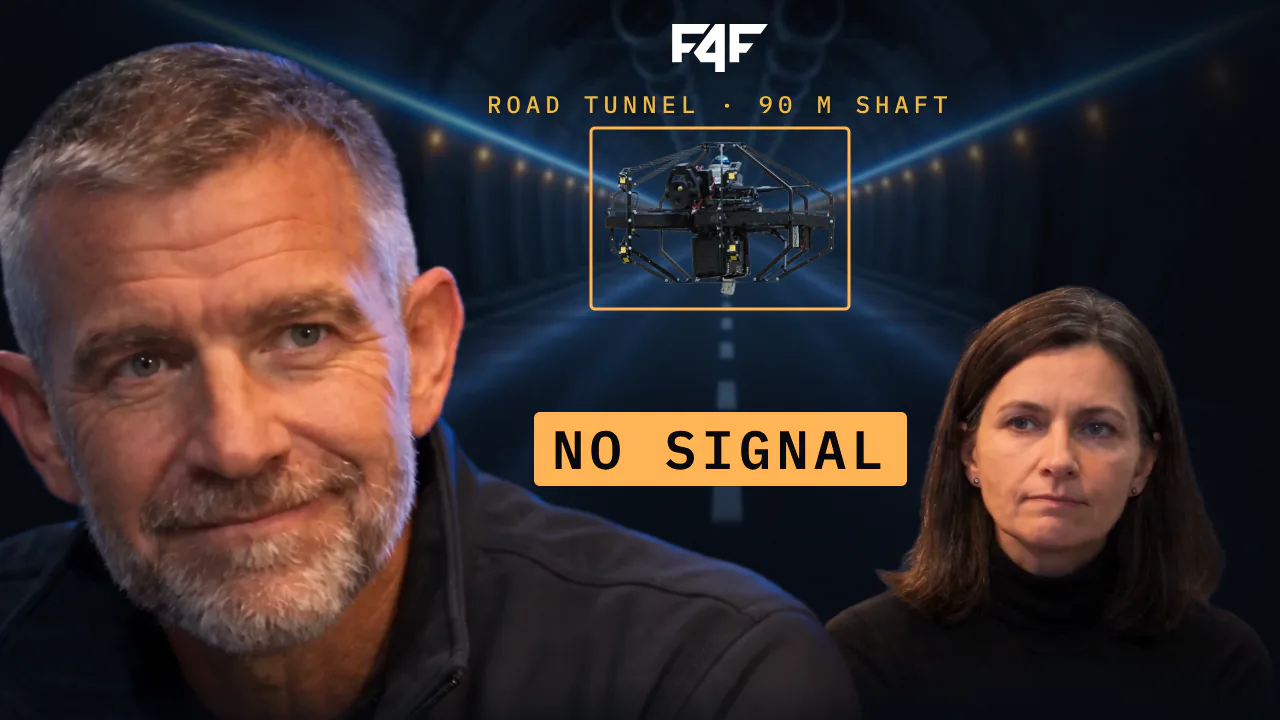
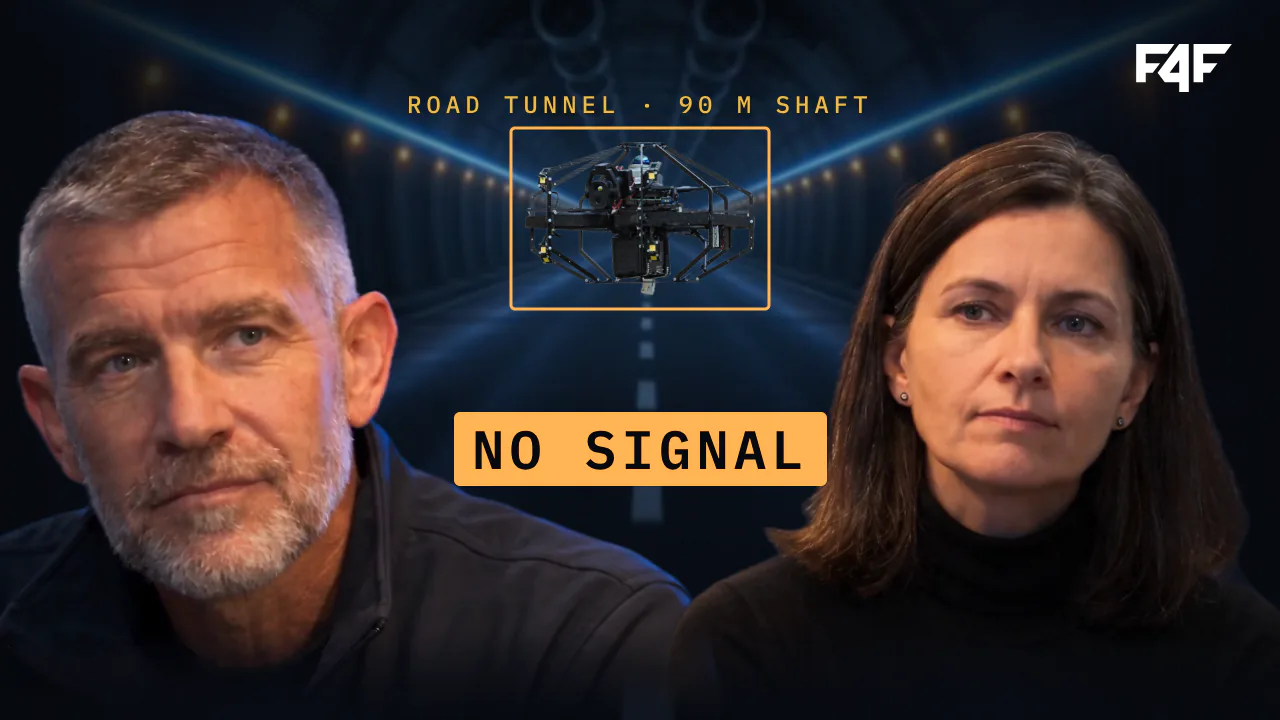
dron: rozhovor jako čistý embed YouTube (název a ikona kanálu nahoře v přehrávači, pod videem bez popisu a tlačítek), náhled 04b s Walterem posunutým doleva a dronem nad tlačítkem Přehrát

diff --git a/public/dron/index.html b/public/dron/index.html
@@ -1315,7 +1315,7 @@
 })();
 </script>
 
-<!-- ===== Rozhovor: minuta Walter × Irena (Seedance 2.5) jako maketa videa na YouTube. Náhled s červeným tlačítkem, po kliknutí hraje se zvukem a českými titulky, ovládání ve stylu YouTube, pod videem název, kanál, akce a popis ===== -->
+<!-- ===== Rozhovor: minuta Walter × Irena (Seedance 2.5) jako vložené video z YouTube. Náhled s červeným tlačítkem a názvem nahoře, po kliknutí hraje se zvukem a českými titulky, ovládání ve stylu YouTube ===== -->
 <style>
   #rozhovor{border-top:1px solid var(--line);padding-bottom:clamp(32px,4vw,48px);z-index:0;--rz-presah:clamp(72px,10vw,140px)}
   /* CTA pod rozhovorem bez vlastní černé plochy (body má stejnou barvu), aby do jejího horního okraje dobíhala silnice z tunelu */
@@ -1330,7 +1330,7 @@
   .rz-hlava .pod{max-width:62ch}
 
   /* maketa YouTube: tmavý motiv a písmo YouTube (Roboto, jinak Arial); z barev stránky jen fokus */
-  .yt{--yt-text:#f1f1f1;--yt-sub:#aaa;--yt-pill:rgba(39,39,39,.86);--yt-pill-h:rgba(63,63,63,.95);--yt-red:#f03;--yt-link:#3ea6ff;
+  .yt{--yt-text:#f1f1f1;--yt-red:#f03;
     max-width:960px;margin:0 auto;font-family:Roboto,Arial,sans-serif;color:var(--yt-text);-webkit-font-smoothing:antialiased}
   .yt button{font-family:inherit}
   .yt :focus-visible{outline:2px solid var(--hot);outline-offset:2px}
@@ -1385,54 +1385,19 @@
   .yt .i-play,.yt.pauza .i-pauza,.yt .i-ticho,.yt.ticho .i-zvuk,.yt .i-fs-ven,.yt.fs .i-fs-in{display:none}
   .yt.pauza .i-play,.yt.ticho .i-ticho,.yt.fs .i-fs-ven{display:block}
 
-  /* pod videem: název, kanál, akce, popis */
-  .yt-nazev{margin:14px 0 10px;font-family:Roboto,Arial,sans-serif;font-size:20px;line-height:28px;font-weight:700;letter-spacing:0;color:var(--yt-text)}
-  .yt-radek{display:flex;align-items:center;gap:12px 16px;flex-wrap:wrap}
-  .yt-kanal{display:flex;align-items:center;gap:12px;min-width:0}
+  /* horní lišta embedu: ikona kanálu a název videa, při přehrávání se schová spolu s ovládáním */
+  .yt-horni{position:absolute;left:0;right:0;top:0;display:flex;align-items:center;gap:12px;padding:12px 16px 30px;pointer-events:none;
+    background:linear-gradient(rgba(0,0,0,.6),rgba(0,0,0,.22) 62%,transparent);transition:opacity .25s ease}
+  .yt.spusteno.skryt .yt-horni{opacity:0}
   .yt-avatar{flex:0 0 auto;width:40px;height:40px;border-radius:50%;background:#00234d;display:grid;place-items:center}
   .yt-avatar svg{width:26px;height:13px;fill:#fff}
-  .yt-kanal b{display:block;font-size:16px;line-height:22px;font-weight:500}
-  .yt-kanal small{display:block;font-size:12px;line-height:18px;color:var(--yt-sub)}
-  .yt-odber{margin-left:12px;height:36px;padding:0 16px;border:0;border-radius:18px;background:#f1f1f1;color:#0f0f0f;font-size:14px;font-weight:500;white-space:nowrap;cursor:pointer;transition:background .2s ease,color .2s ease}
-  .yt-odber:hover{background:#d9d9d9}
-  .yt-odber[aria-pressed="true"]{background:var(--yt-pill);color:var(--yt-text)}
-  .yt-akce{display:flex;gap:8px;margin-left:auto;overflow-x:auto;scrollbar-width:none}
-  .yt-akce::-webkit-scrollbar{display:none}
-  .yt-pill{flex:0 0 auto;display:inline-flex;align-items:center;gap:6px;height:36px;padding:0 16px 0 12px;border:0;border-radius:18px;background:var(--yt-pill);color:var(--yt-text);
-    font-size:14px;font-weight:500;white-space:nowrap;cursor:pointer;-webkit-backdrop-filter:blur(10px);backdrop-filter:blur(10px);transition:background .2s ease}
-  button.yt-pill:hover,.yt-libi button:hover{background:var(--yt-pill-h)}
-  .yt-pill svg{width:24px;height:24px;fill:currentColor}
-  .yt-libi{padding:0;gap:0;overflow:hidden;cursor:auto}
-  .yt-libi button{display:inline-flex;align-items:center;gap:6px;height:36px;padding:0 14px 0 12px;border:0;background:none;color:inherit;font-size:14px;font-weight:500;cursor:pointer;transition:background .2s ease}
-  .yt-libi i{flex:0 0 auto;width:1px;height:24px;background:rgba(255,255,255,.2)}
-  .yt-libi .dolu svg{transform:rotate(180deg)}
-  .yt .i-plny,.yt [aria-pressed="true"] .i-obrys{display:none}
-  .yt [aria-pressed="true"] .i-plny{display:block}
-  .yt-sdilet svg{transform:scaleX(-1)}
-  .yt-popis{margin-top:12px;padding:12px;border-radius:12px;background:var(--yt-pill);-webkit-backdrop-filter:blur(10px);backdrop-filter:blur(10px);
-    font-size:14px;line-height:20px;cursor:pointer;transition:background .2s ease}
-  .yt-popis:not(.otevreno):hover{background:var(--yt-pill-h)}
-  .yt-popis.otevreno{cursor:auto}
-  .yt-meta{font-weight:500}
-  .yt-meta span{margin-left:6px;color:var(--yt-link)}
-  .yt-text{margin-top:4px;max-height:40px;overflow:hidden}
-  .yt-popis.otevreno .yt-text{max-height:none}
-  .yt-text p{margin:0 0 12px}
-  .yt-text [data-t]{padding:0;border:0;background:none;color:var(--yt-link);font-size:14px;cursor:pointer}
-  .yt-ai{padding-top:12px;border-top:1px solid rgba(255,255,255,.1)}
-  .yt-ai b{display:block;margin-bottom:6px;font-size:16px;line-height:22px;font-weight:700}
-  .yt-ai span{display:block;font-weight:500}
-  .yt-ai small{display:block;font-size:12px;line-height:18px;color:var(--yt-sub)}
-  .yt-vice{margin-top:4px;padding:0;border:0;background:none;color:var(--yt-text);font-size:14px;font-weight:500;cursor:pointer}
-  .yt-toast{position:fixed;left:24px;bottom:24px;z-index:60;padding:14px 16px;border-radius:8px;background:#f1f1f1;color:#0f0f0f;font:14px/20px Roboto,Arial,sans-serif;
-    opacity:0;transform:translateY(12px);transition:opacity .25s ease,transform .25s ease;pointer-events:none}
-  .yt-toast.vidno{opacity:1;transform:none}
+  .yt-titul{min-width:0;font-size:18px;line-height:24px;color:#fff;white-space:nowrap;overflow:hidden;text-overflow:ellipsis}
   @media (max-width:760px){
     .rz-pozadi img{opacity:.44}
-    .yt-nazev{margin:12px 0 10px;font-size:18px;line-height:25px}
-    .yt-kanal{flex:1 1 100%}
-    .yt-odber{margin-left:auto}
-    .yt-akce{flex:1 1 100%;margin-left:0}
+    .yt-horni{gap:8px;padding:8px 10px 22px}
+    .yt-avatar{width:32px;height:32px}
+    .yt-avatar svg{width:21px;height:10.5px}
+    .yt-titul{font-size:14px;line-height:20px}
     .yt-ovl{padding:18px 4px 0}
     .yt-lista{height:44px}
     .yt-lista button{width:40px;height:44px}
@@ -1457,10 +1422,11 @@
           <track kind="subtitles" src="/dron/rozhovor/f4f-podcast-v2-cs.vtt" srclang="cs" label="Česky" default>
         </video>
         <div class="yt-titulek" aria-hidden="true"><span></span></div>
-        <button class="yt-start" type="button" aria-label="Přehrát video Who flies a 90 m tunnel shaft? Nobody">
+        <button class="yt-start" type="button" aria-label="Přehrát video Who flies the tunnel shaft? Autonomous RoboAid">
           <img src="/dron/rozhovor/nahled-tunel.webp" width="1280" height="720" alt="" loading="lazy" decoding="async">
           <svg viewBox="0 0 68 48" aria-hidden="true"><path fill="#f03" d="M66.5 7.7c-.8-2.9-2.5-5.4-5.4-5.9C55.8.9 34 .9 34 .9s-21.8 0-27.1.9c-2.9.5-4.6 3-5.4 5.9C.6 13 .6 24 .6 24s0 11 .9 16.3c.8 2.9 2.5 5.4 5.4 5.9 5.3.9 27.1.9 27.1.9s21.8 0 27.1-.9c2.9-.5 4.6-3 5.4-5.9.9-5.3.9-16.3.9-16.3s0-11-.9-16.3z"/><path fill="#fff" d="M45 24 27 14v20z"/></svg>
         </button>
+        <div class="yt-horni" aria-hidden="true"><span class="yt-avatar" aria-hidden="true"><svg viewBox="0 128 512 256"><path d="M434.27 230.49H358.05V179.46H472.67L511.12 128.44H307.09L307.02 332.54H358.05V281.51H395.77ZM115.19 281.51l38.4 51.02h76.9v51.02h51.02v-255.12h-51.02l-115.3 153.07Zm63.84 0l51.46-68.29v68.29h-51.46ZM128.12 230.49H51.91V179.46H166.53L204.98 128.44H.94L.88 332.54H51.91V281.51H89.63Z" fill-rule="evenodd"/></svg></span><span class="yt-titul">Who flies the tunnel shaft? Autonomous RoboAid</span></div>
         <div class="yt-ovl">
           <div class="yt-osa" role="slider" tabindex="0" aria-label="Posun ve videu" aria-valuemin="0" aria-valuemax="60" aria-valuenow="0" aria-valuetext="0:00 z 1:00">
             <div class="yt-drah"><div class="yt-nacteno"></div><div class="yt-prehrano"></div><div class="yt-kap"></div></div>
@@ -1476,32 +1442,6 @@
             <button class="yt-fs" type="button" aria-label="Celá obrazovka"><svg viewBox="0 0 24 24" aria-hidden="true"><path class="i-fs-in" d="M7 14H5v5h5v-2H7v-3zm-2-4h2V7h3V5H5v5zm12 7h-3v2h5v-5h-2v3zM14 5v2h3v3h2V5h-5z"/><path class="i-fs-ven" d="M5 16h3v3h2v-5H5v2zm3-8H5v2h5V5H8v3zm6 11h2v-3h3v-2h-5v5zm2-11V5h-2v5h5V8h-3z"/></svg></button>
           </div>
         </div>
-      </div>
-      <h3 class="yt-nazev">Who flies a 90 m tunnel shaft? Nobody</h3>
-      <div class="yt-radek">
-        <div class="yt-kanal">
-          <span class="yt-avatar" aria-hidden="true"><svg viewBox="0 128 512 256"><path d="M434.27 230.49H358.05V179.46H472.67L511.12 128.44H307.09L307.02 332.54H358.05V281.51H395.77ZM115.19 281.51l38.4 51.02h76.9v51.02h51.02v-255.12h-51.02l-115.3 153.07Zm63.84 0l51.46-68.29v68.29h-51.46ZM128.12 230.49H51.91V179.46H166.53L204.98 128.44H.94L.88 332.54H51.91V281.51H89.63Z" fill-rule="evenodd"/></svg></span>
-          <span><b>Fly4Future</b><small>Autonomní drony bez GPS</small></span>
-          <button class="yt-odber" type="button" aria-pressed="false">Odebírat</button>
-        </div>
-        <div class="yt-akce">
-          <span class="yt-pill yt-libi">
-            <button type="button" aria-pressed="false"><svg viewBox="0 0 24 24" aria-hidden="true"><path class="i-obrys" d="M9 21h9c.83 0 1.54-.5 1.84-1.22l3.02-7.05c.09-.23.14-.47.14-.73v-2c0-1.1-.9-2-2-2h-6.31l.95-4.57.03-.32c0-.41-.17-.79-.44-1.06L14.17 1 7.58 7.59C7.22 7.95 7 8.45 7 9v10c0 1.1.9 2 2 2zM9 9l4.34-4.34L12 10h9v2l-3 7H9V9zM1 9h4v12H1z"/><path class="i-plny" d="M1 21h4V9H1v12zm22-11c0-1.1-.9-2-2-2h-6.31l.95-4.57.03-.32c0-.41-.17-.79-.44-1.06L14.17 1 7.59 7.59C7.22 7.95 7 8.45 7 9v10c0 1.1.9 2 2 2h9c.83 0 1.54-.5 1.84-1.22l3.02-7.05c.09-.23.14-.47.14-.73v-2z"/></svg>Líbí se mi</button>
-            <i></i>
-            <button class="dolu" type="button" aria-pressed="false" aria-label="Nelíbí se mi"><svg viewBox="0 0 24 24" aria-hidden="true"><path class="i-obrys" d="M9 21h9c.83 0 1.54-.5 1.84-1.22l3.02-7.05c.09-.23.14-.47.14-.73v-2c0-1.1-.9-2-2-2h-6.31l.95-4.57.03-.32c0-.41-.17-.79-.44-1.06L14.17 1 7.58 7.59C7.22 7.95 7 8.45 7 9v10c0 1.1.9 2 2 2zM9 9l4.34-4.34L12 10h9v2l-3 7H9V9zM1 9h4v12H1z"/><path class="i-plny" d="M1 21h4V9H1v12zm22-11c0-1.1-.9-2-2-2h-6.31l.95-4.57.03-.32c0-.41-.17-.79-.44-1.06L14.17 1 7.59 7.59C7.22 7.95 7 8.45 7 9v10c0 1.1.9 2 2 2h9c.83 0 1.54-.5 1.84-1.22l3.02-7.05c.09-.23.14-.47.14-.73v-2z"/></svg></button>
-          </span>
-          <button class="yt-pill yt-sdilet" type="button"><svg viewBox="0 0 24 24" aria-hidden="true"><path d="M10 9V5l-7 7 7 7v-4.1c5 0 8.5 1.6 11 5.1-1-5-4-10-11-11z"/></svg>Sdílet</button>
-          <button class="yt-pill yt-ulozit" type="button" aria-pressed="false"><svg viewBox="0 0 24 24" aria-hidden="true"><path d="M14 10H3v2h11v-2zm0-4H3v2h11V6zm4 8v-4h-2v4h-4v2h4v4h2v-4h4v-2h-4zM3 16h7v-2H3v2z"/></svg><span>Uložit</span></button>
-        </div>
-      </div>
-      <div class="yt-popis" id="rzPopis">
-        <div class="yt-meta">Koncept videa · 1:00<span>#RoboAid</span><span>#TunnelInspection</span><span>#NoGPS</span></div>
-        <div class="yt-text">
-          <p>Walter runs maintenance for road tunnels. Ventilation shafts up to 90 metres, no signal, no light, and one inspection means closing the tunnel for a night. Irena explains how RoboAid flies the shaft on its own, with 3D LiDAR instead of GPS and all computing on board.</p>
-          <p><button type="button" data-t="0">0:00</button> Shafts without signal<br><button type="button" data-t="30.1">0:30</button> No GPS, no pilot</p>
-          <div class="yt-ai"><b>Jak obsah vznikl</b><span>Upravený nebo syntetický obsah</span><small>Postavy jsou fiktivní, rozhovor vznikl s pomocí AI. Parametry RoboAidu odpovídají skutečnosti.</small></div>
-        </div>
-        <button class="yt-vice" type="button" aria-expanded="false">…více</button>
       </div>
     </div>
   </div>
@@ -1637,46 +1577,6 @@
       else if (r >= 0.6 && pauzaMimo){ pauzaMimo = false; if (!uzivatelPauza) hraj(); }
     }, {threshold: [0, 0.6]}).observe(ram);
   }
-
-  // pod videem: odběr, líbí se, uložit, sdílet, popis s kapitolami
-  var odber = $('.yt-odber');
-  odber.addEventListener('click', function(){
-    var zap = odber.getAttribute('aria-pressed') !== 'true';
-    odber.setAttribute('aria-pressed', zap); odber.textContent = zap ? 'Odebíráte' : 'Odebírat';
-  });
-  yt.querySelectorAll('.yt-libi button, .yt-ulozit').forEach(function(b){
-    b.addEventListener('click', function(){
-      var zap = b.getAttribute('aria-pressed') !== 'true';
-      if (zap && b.parentNode.classList.contains('yt-libi')) b.parentNode.querySelectorAll('button').forEach(function(x){ x.setAttribute('aria-pressed', 'false'); });
-      b.setAttribute('aria-pressed', zap);
-      if (b.classList.contains('yt-ulozit')) b.querySelector('span').textContent = zap ? 'Uloženo' : 'Uložit';
-    });
-  });
-  var toast;
-  function oznam(text){
-    if (!toast){ toast = document.createElement('div'); toast.className = 'yt-toast'; toast.setAttribute('role', 'status'); document.body.appendChild(toast); }
-    toast.textContent = text; toast.classList.add('vidno');
-    clearTimeout(toast.t); toast.t = setTimeout(function(){ toast.classList.remove('vidno'); }, 2400);
-  }
-  $('.yt-sdilet').addEventListener('click', function(){
-    var url = location.origin + location.pathname + '#rozhovor';
-    if (navigator.share && matchMedia('(pointer: coarse)').matches){ navigator.share({title: document.title, url: url}).catch(function(){}); return; }
-    if (navigator.clipboard && navigator.clipboard.writeText) navigator.clipboard.writeText(url).then(function(){ oznam('Odkaz zkopírován do schránky'); }, function(){ oznam(url); });
-    else oznam(url);
-  });
-  var popis = document.getElementById('rzPopis'), vice = popis.querySelector('.yt-vice');
-  function rozbal(zap){ popis.classList.toggle('otevreno', zap); vice.textContent = zap ? 'Méně' : '…více'; vice.setAttribute('aria-expanded', zap); }
-  popis.addEventListener('click', function(e){
-    if (e.target.closest('[data-t]')) return;
-    if (e.target === vice){ rozbal(!popis.classList.contains('otevreno')); return; }
-    if (!popis.classList.contains('otevreno')) rozbal(true);
-  });
-  popis.querySelectorAll('[data-t]').forEach(function(b){
-    b.addEventListener('click', function(){
-      v.currentTime = parseFloat(b.getAttribute('data-t')); uzivatelPauza = false; hraj(); kresliCas();
-      ram.scrollIntoView({behavior: klid ? 'auto' : 'smooth', block: 'center'});
-    });
-  });
 
   stav(); kresliCas();
 })();
